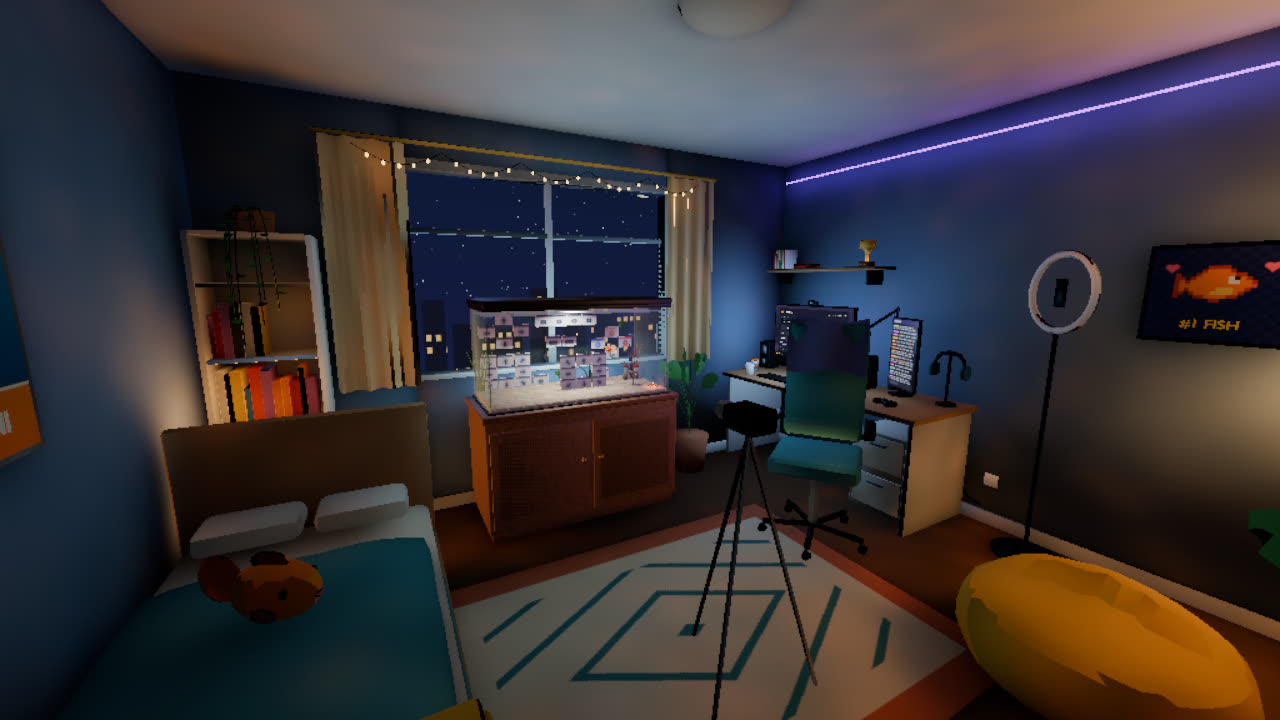
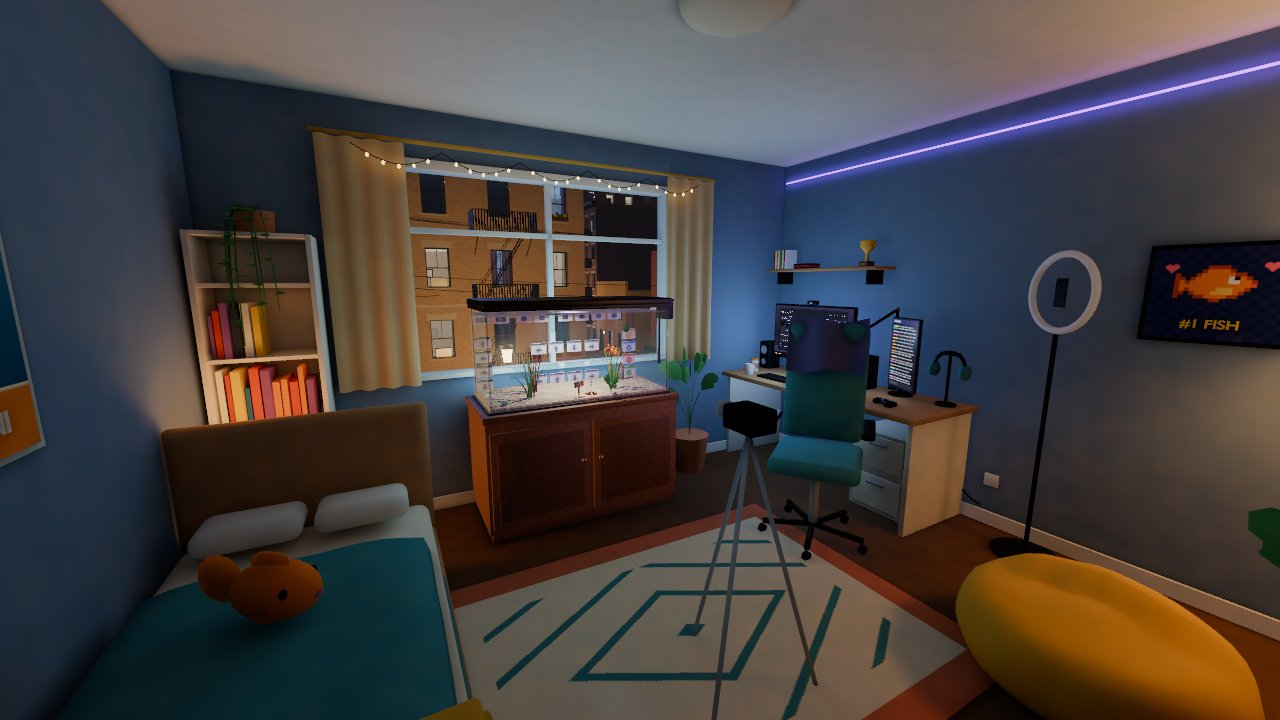
New README and landing page screenshots
The bedroom at night with the street outside, the fish's view with the
street through the window, and the tank cam, all from the current scene.

Claude-Session: https://claude.ai/code/session_01FL8xwHu2b74N3DwyytetCE

diff --git a/site/template.html b/site/template.html
@@ -16,13 +16,13 @@
       <p class="slogan">Fish can do anything.</p>
     </header>
 
-    <img class="wide" src="assets/bedroom.jpg" width="1280" height="720" alt="A bedroom at night. A fish tank full of controller flash cards sits under the window, and a desk with a gaming PC and monitor is across the room.">
+    <img class="wide" src="assets/bedroom.jpg" width="1280" height="720" alt="A bedroom at night. A fish tank full of controller flash cards sits under the window, with a lamplit street and brick rowhouses outside, and a desk with a gaming PC and monitor is across the room.">
 
     <p>Linguini lets you play your PC games as a goldfish. Swimming in front of a flash card in your tank presses that button in the game, which plays on a monitor across the room. Any game your PC can stream over <a href="https://moonlight-stream.org/">Moonlight</a> works, from either <a href="https://github.com/LizardByte/Sunshine">Sunshine</a> or GeForce Experience, though you will need to install Linguini on a separate machine from your game host.</p>
     <p>Inspired by Tortellini, the fish who conquered Elden Ring.</p>
 
     <figure>
-      <img src="assets/your-view.jpg" width="1280" height="720" loading="lazy" alt="Behind the goldfish in the tank, with the X, Y, B and A cards ahead and the monitor visible through the glass.">
+      <img src="assets/your-view.jpg" width="1280" height="720" loading="lazy" alt="Behind the goldfish in the tank, with flash cards on the glass ahead and the street outside the window beyond.">
       <figcaption>Your view while you play.</figcaption>
     </figure>
 

diff --git a/README.md b/README.md
@@ -2,13 +2,13 @@
 
 Fish can do anything.
 
-![A bedroom at night. A fish tank full of controller flash cards sits under the window, and a desk with a gaming PC and monitor is across the room.](site/assets/bedroom.jpg)
+![A bedroom at night. A fish tank full of controller flash cards sits under the window, with a lamplit street and brick rowhouses outside, and a desk with a gaming PC and monitor is across the room.](site/assets/bedroom.jpg)
 
 Linguini lets you play your PC games as a goldfish. Swimming in front of a flash card in your tank presses that button in the game, which plays on a monitor across the room. Any game your PC can stream over [Moonlight](https://moonlight-stream.org/) works, from either [Sunshine](https://github.com/LizardByte/Sunshine) or GeForce Experience, though you will need to install Linguini on a separate machine from your game host.
 
 Inspired by Tortellini, the fish who conquered Elden Ring.
 
-![Behind the goldfish in the tank, with the X, Y, B and A cards ahead and the monitor visible through the glass.](site/assets/your-view.jpg)
+![Behind the goldfish in the tank, with flash cards on the glass ahead and the street outside the window beyond.](site/assets/your-view.jpg)
 
 *Your view while you play.*
 
